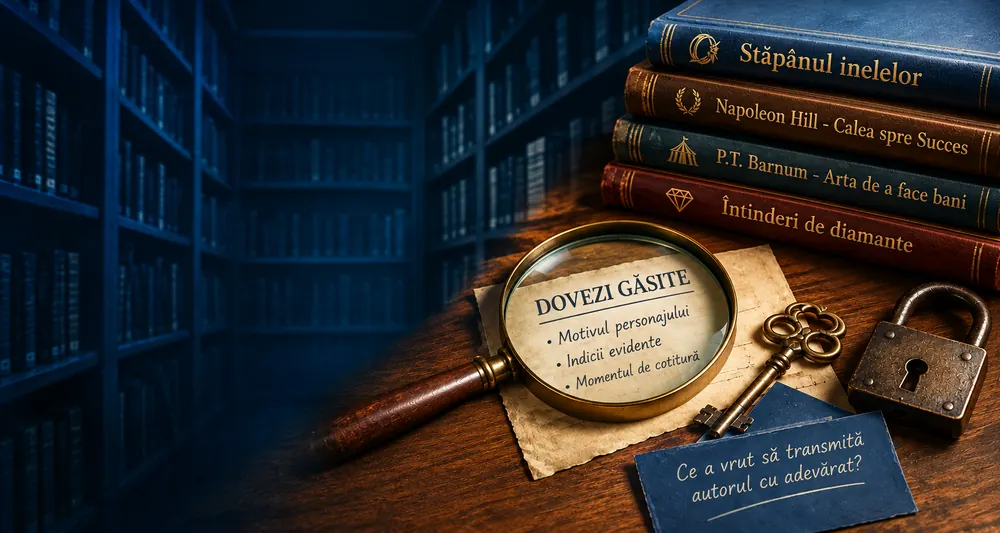
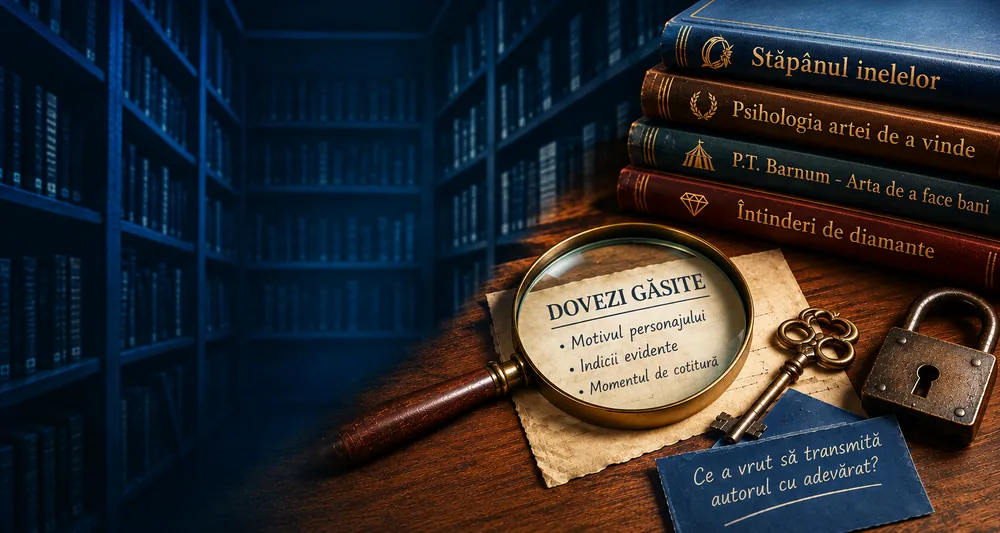
Redenumire în „Cărți care schimbă vieți”, domeniu cartibune.aisucces.ro
- Nume nou în header, <title>, subsol, README și comentariile din cod
- Subtitlu: „Jocuri de lectură interactive pentru minți curioase”
- Kicker hero: „Escape room din cărți clasice · Gratuit · Fără cont”
- Eliminat termenul „arcadă” (meta description, README, catalog.js)
- Subsol: „Un proiect educativ gratuit al aisucces.ro”, cu link
- CNAME pentru cartibune.aisucces.ro, URL canonic pe pagina de start,
  secțiunea de publicare din README actualizată
- hero-1717.webp și hero-1000.webp regenerate din noul assets/hero.png

Claude-Session: https://claude.ai/code/session_01NToDqotoC8mFPkmcRRoXha

diff --git a/index.html b/index.html
@@ -3,8 +3,9 @@
 <head>
   <meta charset="utf-8">
   <meta name="viewport" content="width=device-width, initial-scale=1">
-  <title>Lecturi care schimbă</title>
-  <meta name="description" content="Arcadă educativă gratuită cu clasici ai dezvoltării personale din domeniul public: camere-joc pentru elevi, fișe pentru profesori și exerciții practice pentru adulți.">
+  <title>Cărți care schimbă vieți</title>
+  <meta name="description" content="Escape room de lectură gratuit, cu clasici ai dezvoltării personale din domeniul public: camere-joc pentru elevi, fișe pentru profesori și exerciții practice pentru adulți.">
+  <link rel="canonical" href="https://cartibune.aisucces.ro/">
   <link rel="icon" href="assets/img/favicon.svg" type="image/svg+xml">
   <link rel="stylesheet" href="assets/css/style.css">
 </head>
@@ -16,8 +17,8 @@
       <a class="brand" href="./">
         <svg viewBox="0 0 64 64" aria-hidden="true"><path d="M14 8h36l12 16-30 34L2 24z" fill="#2fb3c2" stroke="currentColor" stroke-width="3" stroke-linejoin="round"/><path d="M2 24h60M14 8l10 16 8 34 8-34 10-16M24 24 32 8l8 16" fill="none" stroke="currentColor" stroke-width="2.5" stroke-linejoin="round"/></svg>
         <span class="brand-text">
-          Lecturi care schimbă
-          <span class="brand-tagline">Cărți care schimbă minți · Joc de lectură interactivă</span>
+          Cărți care schimbă vieți
+          <span class="brand-tagline">Jocuri de lectură interactive pentru minți curioase</span>
         </span>
       </a>
       <nav class="header-links" aria-label="Principal">
@@ -35,7 +36,7 @@
         <img src="assets/hero.png" width="1717" height="916" alt="" fetchpriority="high" decoding="async">
       </picture>
       <div class="wrap hero-banner__copy">
-        <p class="kicker">Arcadă de lectură · gratuită · fără cont</p>
+        <p class="kicker">Escape room din cărți clasice · Gratuit · Fără cont</p>
         <h1 id="t-hero">Transformă subiectul cărții într-o anchetă.</h1>
         <p class="hero-triad">Citește. Caută dovezi. Deschide lacătul.</p>
         <div class="btn-row">
@@ -92,7 +93,7 @@
 
   <footer class="site-footer">
     <div class="wrap">
-      <p><strong>Lecturi care schimbă</strong> — proiect educativ necomercial. Textele originale sunt în domeniul public; traducerile citatelor, rezumatele și jocurile sunt originale.</p>
+      <p><strong>Cărți care schimbă vieți</strong> — Un proiect educativ gratuit al <a href="https://www.aisucces.ro">aisucces.ro</a>. Textele originale sunt în domeniul public; traducerile citatelor, rezumatele și jocurile sunt originale.</p>
       <p>Fără conturi. Fără cookie-uri de urmărire. Fără analytics.</p>
     </div>
   </footer>

diff --git a/carti/the-power-of-concentration/index.html b/carti/the-power-of-concentration/index.html
@@ -3,7 +3,7 @@
 <head>
   <meta charset="utf-8">
   <meta name="viewport" content="width=device-width, initial-scale=1">
-  <title>Puterea concentrării · Lecturi care schimbă</title>
+  <title>Puterea concentrării · Cărți care schimbă vieți</title>
   <meta name="description" content="Cameră interactivă după „The Power of Concentration” de Theron Q. Dumont (William Walker Atkinson): dosar de indicii, breakout cu 5 lacăte, exercițiu de atenție, provocare de 7 zile și fișă pentru profesori.">
   <link rel="icon" href="../../assets/img/favicon.svg" type="image/svg+xml">
   <link rel="stylesheet" href="../../assets/css/style.css">
@@ -15,7 +15,7 @@
     <div class="wrap">
       <a class="brand" href="../../">
         <svg viewBox="0 0 64 64" aria-hidden="true"><path d="M14 8h36l12 16-30 34L2 24z" fill="#2fb3c2" stroke="currentColor" stroke-width="3" stroke-linejoin="round"/><path d="M2 24h60M14 8l10 16 8 34 8-34 10-16M24 24 32 8l8 16" fill="none" stroke="currentColor" stroke-width="2.5" stroke-linejoin="round"/></svg>
-        Lecturi care schimbă
+        Cărți care schimbă vieți
       </a>
       <nav class="header-links" aria-label="Principal">
         <a href="../../#catalog">Catalog</a>
@@ -33,7 +33,7 @@
 
   <footer class="site-footer">
     <div class="wrap">
-      <p>Textul original „The Power of Concentration” (Theron Q. Dumont, pseudonimul lui William Walker Atkinson) este în domeniul public. Rezumatele, traducerile citatelor, jocurile și fișa sunt originale ale proiectului <strong>Lecturi care schimbă</strong>.</p>
+      <p>Textul original „The Power of Concentration” (Theron Q. Dumont, pseudonimul lui William Walker Atkinson) este în domeniul public. Rezumatele, traducerile citatelor, jocurile și fișa sunt originale ale proiectului <strong>Cărți care schimbă vieți</strong>.</p>
       <p>Progresul se salvează doar în browserul tău. <button class="theme-btn" type="button" id="reset-camera">Resetează camera</button></p>
     </div>
   </footer>

diff --git a/carti/the-way-to-wealth/index.html b/carti/the-way-to-wealth/index.html
@@ -3,7 +3,7 @@
 <head>
   <meta charset="utf-8">
   <meta name="viewport" content="width=device-width, initial-scale=1">
-  <title>Cum să devii bogat și arta virtuții · Lecturi care schimbă</title>
+  <title>Cum să devii bogat și arta virtuții · Cărți care schimbă vieți</title>
   <meta name="description" content="Cameră interactivă după „The Way to Wealth” și cele 13 virtuți ale lui Benjamin Franklin: dosar de indicii, breakout cu 5 lacăte, mini-jocuri, reflecție și fișă pentru profesori.">
   <link rel="icon" href="../../assets/img/favicon.svg" type="image/svg+xml">
   <link rel="stylesheet" href="../../assets/css/style.css">
@@ -15,7 +15,7 @@
     <div class="wrap">
       <a class="brand" href="../../">
         <svg viewBox="0 0 64 64" aria-hidden="true"><path d="M14 8h36l12 16-30 34L2 24z" fill="#2fb3c2" stroke="currentColor" stroke-width="3" stroke-linejoin="round"/><path d="M2 24h60M14 8l10 16 8 34 8-34 10-16M24 24 32 8l8 16" fill="none" stroke="currentColor" stroke-width="2.5" stroke-linejoin="round"/></svg>
-        Lecturi care schimbă
+        Cărți care schimbă vieți
       </a>
       <nav class="header-links" aria-label="Principal">
         <a href="../../#catalog">Catalog</a>
@@ -33,7 +33,7 @@
 
   <footer class="site-footer">
     <div class="wrap">
-      <p>Textele originale „The Way to Wealth” și „Autobiografia” lui Benjamin Franklin sunt în domeniul public. Rezumatele, traducerile citatelor, jocurile și fișa sunt originale ale proiectului <strong>Lecturi care schimbă</strong>.</p>
+      <p>Textele originale „The Way to Wealth” și „Autobiografia” lui Benjamin Franklin sunt în domeniul public. Rezumatele, traducerile citatelor, jocurile și fișa sunt originale ale proiectului <strong>Cărți care schimbă vieți</strong>.</p>
       <p>Progresul se salvează doar în browserul tău. <button class="theme-btn" type="button" id="reset-camera">Resetează camera</button></p>
     </div>
   </footer>

diff --git a/carti/the-science-of-getting-rich/index.html b/carti/the-science-of-getting-rich/index.html
@@ -3,7 +3,7 @@
 <head>
   <meta charset="utf-8">
   <meta name="viewport" content="width=device-width, initial-scale=1">
-  <title>Știința de a deveni bogat · Lecturi care schimbă</title>
+  <title>Știința de a deveni bogat · Cărți care schimbă vieți</title>
   <meta name="description" content="Cameră interactivă după „The Science of Getting Rich” de Wallace D. Wattles: dosar de indicii, breakout cu 5 lacăte, mini-jocuri, reflecție și fișă pentru profesori.">
   <link rel="icon" href="../../assets/img/favicon.svg" type="image/svg+xml">
   <link rel="stylesheet" href="../../assets/css/style.css">
@@ -15,7 +15,7 @@
     <div class="wrap">
       <a class="brand" href="../../">
         <svg viewBox="0 0 64 64" aria-hidden="true"><path d="M14 8h36l12 16-30 34L2 24z" fill="#2fb3c2" stroke="currentColor" stroke-width="3" stroke-linejoin="round"/><path d="M2 24h60M14 8l10 16 8 34 8-34 10-16M24 24 32 8l8 16" fill="none" stroke="currentColor" stroke-width="2.5" stroke-linejoin="round"/></svg>
-        Lecturi care schimbă
+        Cărți care schimbă vieți
       </a>
       <nav class="header-links" aria-label="Principal">
         <a href="../../#catalog">Catalog</a>
@@ -33,7 +33,7 @@
 
   <footer class="site-footer">
     <div class="wrap">
-      <p>Textul original „The Science of Getting Rich” (Wallace D. Wattles) este în domeniul public. Rezumatele, traducerile citatelor, jocurile și fișa sunt originale ale proiectului <strong>Lecturi care schimbă</strong>.</p>
+      <p>Textul original „The Science of Getting Rich” (Wallace D. Wattles) este în domeniul public. Rezumatele, traducerile citatelor, jocurile și fișa sunt originale ale proiectului <strong>Cărți care schimbă vieți</strong>.</p>
       <p>Progresul se salvează doar în browserul tău. <button class="theme-btn" type="button" id="reset-camera">Resetează camera</button></p>
     </div>
   </footer>

diff --git a/carti/acres-of-diamonds/index.html b/carti/acres-of-diamonds/index.html
@@ -3,7 +3,7 @@
 <head>
   <meta charset="utf-8">
   <meta name="viewport" content="width=device-width, initial-scale=1">
-  <title>Întinderi de diamante · Lecturi care schimbă</title>
+  <title>Întinderi de diamante · Cărți care schimbă vieți</title>
   <meta name="description" content="Cameră interactivă după „Acres of Diamonds” de Russell H. Conwell: dosar de indicii, breakout cu 5 lacăte, mini-jocuri, reflecție și fișă pentru profesori.">
   <link rel="icon" href="../../assets/img/favicon.svg" type="image/svg+xml">
   <link rel="stylesheet" href="../../assets/css/style.css">
@@ -15,7 +15,7 @@
     <div class="wrap">
       <a class="brand" href="../../">
         <svg viewBox="0 0 64 64" aria-hidden="true"><path d="M14 8h36l12 16-30 34L2 24z" fill="#2fb3c2" stroke="currentColor" stroke-width="3" stroke-linejoin="round"/><path d="M2 24h60M14 8l10 16 8 34 8-34 10-16M24 24 32 8l8 16" fill="none" stroke="currentColor" stroke-width="2.5" stroke-linejoin="round"/></svg>
-        Lecturi care schimbă
+        Cărți care schimbă vieți
       </a>
       <nav class="header-links" aria-label="Principal">
         <a href="../../#catalog">Catalog</a>
@@ -33,7 +33,7 @@
 
   <footer class="site-footer">
     <div class="wrap">
-      <p>Textul original „Acres of Diamonds” (Russell H. Conwell) este în domeniul public. Rezumatele, traducerile citatelor, jocurile și fișa sunt originale ale proiectului <strong>Lecturi care schimbă</strong>.</p>
+      <p>Textul original „Acres of Diamonds” (Russell H. Conwell) este în domeniul public. Rezumatele, traducerile citatelor, jocurile și fișa sunt originale ale proiectului <strong>Cărți care schimbă vieți</strong>.</p>
       <p>Progresul se salvează doar în browserul tău. <button class="theme-btn" type="button" id="reset-camera">Resetează camera</button></p>
     </div>
   </footer>

diff --git a/carti/the-art-of-money-getting/index.html b/carti/the-art-of-money-getting/index.html
@@ -3,7 +3,7 @@
 <head>
   <meta charset="utf-8">
   <meta name="viewport" content="width=device-width, initial-scale=1">
-  <title>Arta de a face bani · Lecturi care schimbă</title>
+  <title>Arta de a face bani · Cărți care schimbă vieți</title>
   <meta name="description" content="Cameră interactivă după „The Art of Money Getting” de P. T. Barnum: dosar de indicii, breakout cu 5 lacăte, mini-jocuri, reflecție și fișă pentru profesori.">
   <link rel="icon" href="../../assets/img/favicon.svg" type="image/svg+xml">
   <link rel="stylesheet" href="../../assets/css/style.css">
@@ -15,7 +15,7 @@
     <div class="wrap">
       <a class="brand" href="../../">
         <svg viewBox="0 0 64 64" aria-hidden="true"><path d="M14 8h36l12 16-30 34L2 24z" fill="#2fb3c2" stroke="currentColor" stroke-width="3" stroke-linejoin="round"/><path d="M2 24h60M14 8l10 16 8 34 8-34 10-16M24 24 32 8l8 16" fill="none" stroke="currentColor" stroke-width="2.5" stroke-linejoin="round"/></svg>
-        Lecturi care schimbă
+        Cărți care schimbă vieți
       </a>
       <nav class="header-links" aria-label="Principal">
         <a href="../../#catalog">Catalog</a>
@@ -33,7 +33,7 @@
 
   <footer class="site-footer">
     <div class="wrap">
-      <p>Textul original „The Art of Money Getting” (P. T. Barnum) este în domeniul public. Rezumatele, traducerile citatelor, jocurile și fișa sunt originale ale proiectului <strong>Lecturi care schimbă</strong>.</p>
+      <p>Textul original „The Art of Money Getting” (P. T. Barnum) este în domeniul public. Rezumatele, traducerile citatelor, jocurile și fișa sunt originale ale proiectului <strong>Cărți care schimbă vieți</strong>.</p>
       <p>Progresul se salvează doar în browserul tău. <button class="theme-btn" type="button" id="reset-camera">Resetează camera</button></p>
     </div>
   </footer>

diff --git a/carti/_sablon/index.html b/carti/_sablon/index.html
@@ -3,7 +3,7 @@
 <head>
   <meta charset="utf-8">
   <meta name="viewport" content="width=device-width, initial-scale=1">
-  <title>TITLU · Lecturi care schimbă</title>
+  <title>TITLU · Cărți care schimbă vieți</title>
   <meta name="description" content="DESCRIERE">
   <link rel="icon" href="../../assets/img/favicon.svg" type="image/svg+xml">
   <link rel="stylesheet" href="../../assets/css/style.css">
@@ -15,7 +15,7 @@
     <div class="wrap">
       <a class="brand" href="../../">
         <svg viewBox="0 0 64 64" aria-hidden="true"><path d="M14 8h36l12 16-30 34L2 24z" fill="#2fb3c2" stroke="currentColor" stroke-width="3" stroke-linejoin="round"/><path d="M2 24h60M14 8l10 16 8 34 8-34 10-16M24 24 32 8l8 16" fill="none" stroke="currentColor" stroke-width="2.5" stroke-linejoin="round"/></svg>
-        Lecturi care schimbă
+        Cărți care schimbă vieți
       </a>
       <nav class="header-links" aria-label="Principal">
         <a href="../../#catalog">Catalog</a>
@@ -33,7 +33,7 @@
 
   <footer class="site-footer">
     <div class="wrap">
-      <p>Textul original („TITLU ORIGINAL”, AUTOR) este în domeniul public. Rezumatele, traducerile citatelor, jocurile și fișa sunt originale ale proiectului <strong>Lecturi care schimbă</strong>.</p>
+      <p>Textul original („TITLU ORIGINAL”, AUTOR) este în domeniul public. Rezumatele, traducerile citatelor, jocurile și fișa sunt originale ale proiectului <strong>Cărți care schimbă vieți</strong>.</p>
       <p>Progresul se salvează doar în browserul tău. <button class="theme-btn" type="button" id="reset-camera">Resetează camera</button></p>
     </div>
   </footer>

diff --git a/assets/js/room.js b/assets/js/room.js
@@ -1,4 +1,4 @@
-/* Lecturi care schimbă — motorul unei camere.
+/* Cărți care schimbă vieți — motorul unei camere.
    Citește window.CAMERA (din carti/<id>/data.js) și construiește pagina în #camera.
    Nu trimite nimic nicăieri: progresul și notițele stau doar în localStorage. */
 (function () {
@@ -1094,7 +1094,7 @@
     if (!C) return;
     KEY = "camera:" + C.id;
     state = load();
-    document.title = C.titlu + " · Lecturi care schimbă";
+    document.title = C.titlu + " · Cărți care schimbă vieți";
     var root = document.getElementById("camera");
     root.innerHTML = "";
     [hero(), stepper(), dosar(), breakout(), jocuri(), reflectie(), profesori()].forEach(function (n) { root.appendChild(n); });

diff --git a/carti/_sablon/fisa.html b/carti/_sablon/fisa.html
@@ -15,7 +15,7 @@
     <div class="wrap">
       <a class="brand" href="../../">
         <svg viewBox="0 0 64 64" aria-hidden="true"><path d="M14 8h36l12 16-30 34L2 24z" fill="#2fb3c2" stroke="currentColor" stroke-width="3" stroke-linejoin="round"/><path d="M2 24h60M14 8l10 16 8 34 8-34 10-16M24 24 32 8l8 16" fill="none" stroke="currentColor" stroke-width="2.5" stroke-linejoin="round"/></svg>
-        Lecturi care schimbă
+        Cărți care schimbă vieți
       </a>
       <nav class="header-links" aria-label="Principal">
         <a href="./">← Înapoi la cameră</a>

diff --git a/carti/acres-of-diamonds/fisa.html b/carti/acres-of-diamonds/fisa.html
@@ -15,7 +15,7 @@
     <div class="wrap">
       <a class="brand" href="../../">
         <svg viewBox="0 0 64 64" aria-hidden="true"><path d="M14 8h36l12 16-30 34L2 24z" fill="#2fb3c2" stroke="currentColor" stroke-width="3" stroke-linejoin="round"/><path d="M2 24h60M14 8l10 16 8 34 8-34 10-16M24 24 32 8l8 16" fill="none" stroke="currentColor" stroke-width="2.5" stroke-linejoin="round"/></svg>
-        Lecturi care schimbă
+        Cărți care schimbă vieți
       </a>
       <nav class="header-links" aria-label="Principal">
         <a href="./">← Înapoi la cameră</a>

diff --git a/carti/the-art-of-money-getting/fisa.html b/carti/the-art-of-money-getting/fisa.html
@@ -15,7 +15,7 @@
     <div class="wrap">
       <a class="brand" href="../../">
         <svg viewBox="0 0 64 64" aria-hidden="true"><path d="M14 8h36l12 16-30 34L2 24z" fill="#2fb3c2" stroke="currentColor" stroke-width="3" stroke-linejoin="round"/><path d="M2 24h60M14 8l10 16 8 34 8-34 10-16M24 24 32 8l8 16" fill="none" stroke="currentColor" stroke-width="2.5" stroke-linejoin="round"/></svg>
-        Lecturi care schimbă
+        Cărți care schimbă vieți
       </a>
       <nav class="header-links" aria-label="Principal">
         <a href="./">← Înapoi la cameră</a>

diff --git a/carti/the-power-of-concentration/fisa.html b/carti/the-power-of-concentration/fisa.html
@@ -15,7 +15,7 @@
     <div class="wrap">
       <a class="brand" href="../../">
         <svg viewBox="0 0 64 64" aria-hidden="true"><path d="M14 8h36l12 16-30 34L2 24z" fill="#2fb3c2" stroke="currentColor" stroke-width="3" stroke-linejoin="round"/><path d="M2 24h60M14 8l10 16 8 34 8-34 10-16M24 24 32 8l8 16" fill="none" stroke="currentColor" stroke-width="2.5" stroke-linejoin="round"/></svg>
-        Lecturi care schimbă
+        Cărți care schimbă vieți
       </a>
       <nav class="header-links" aria-label="Principal">
         <a href="./">← Înapoi la cameră</a>
